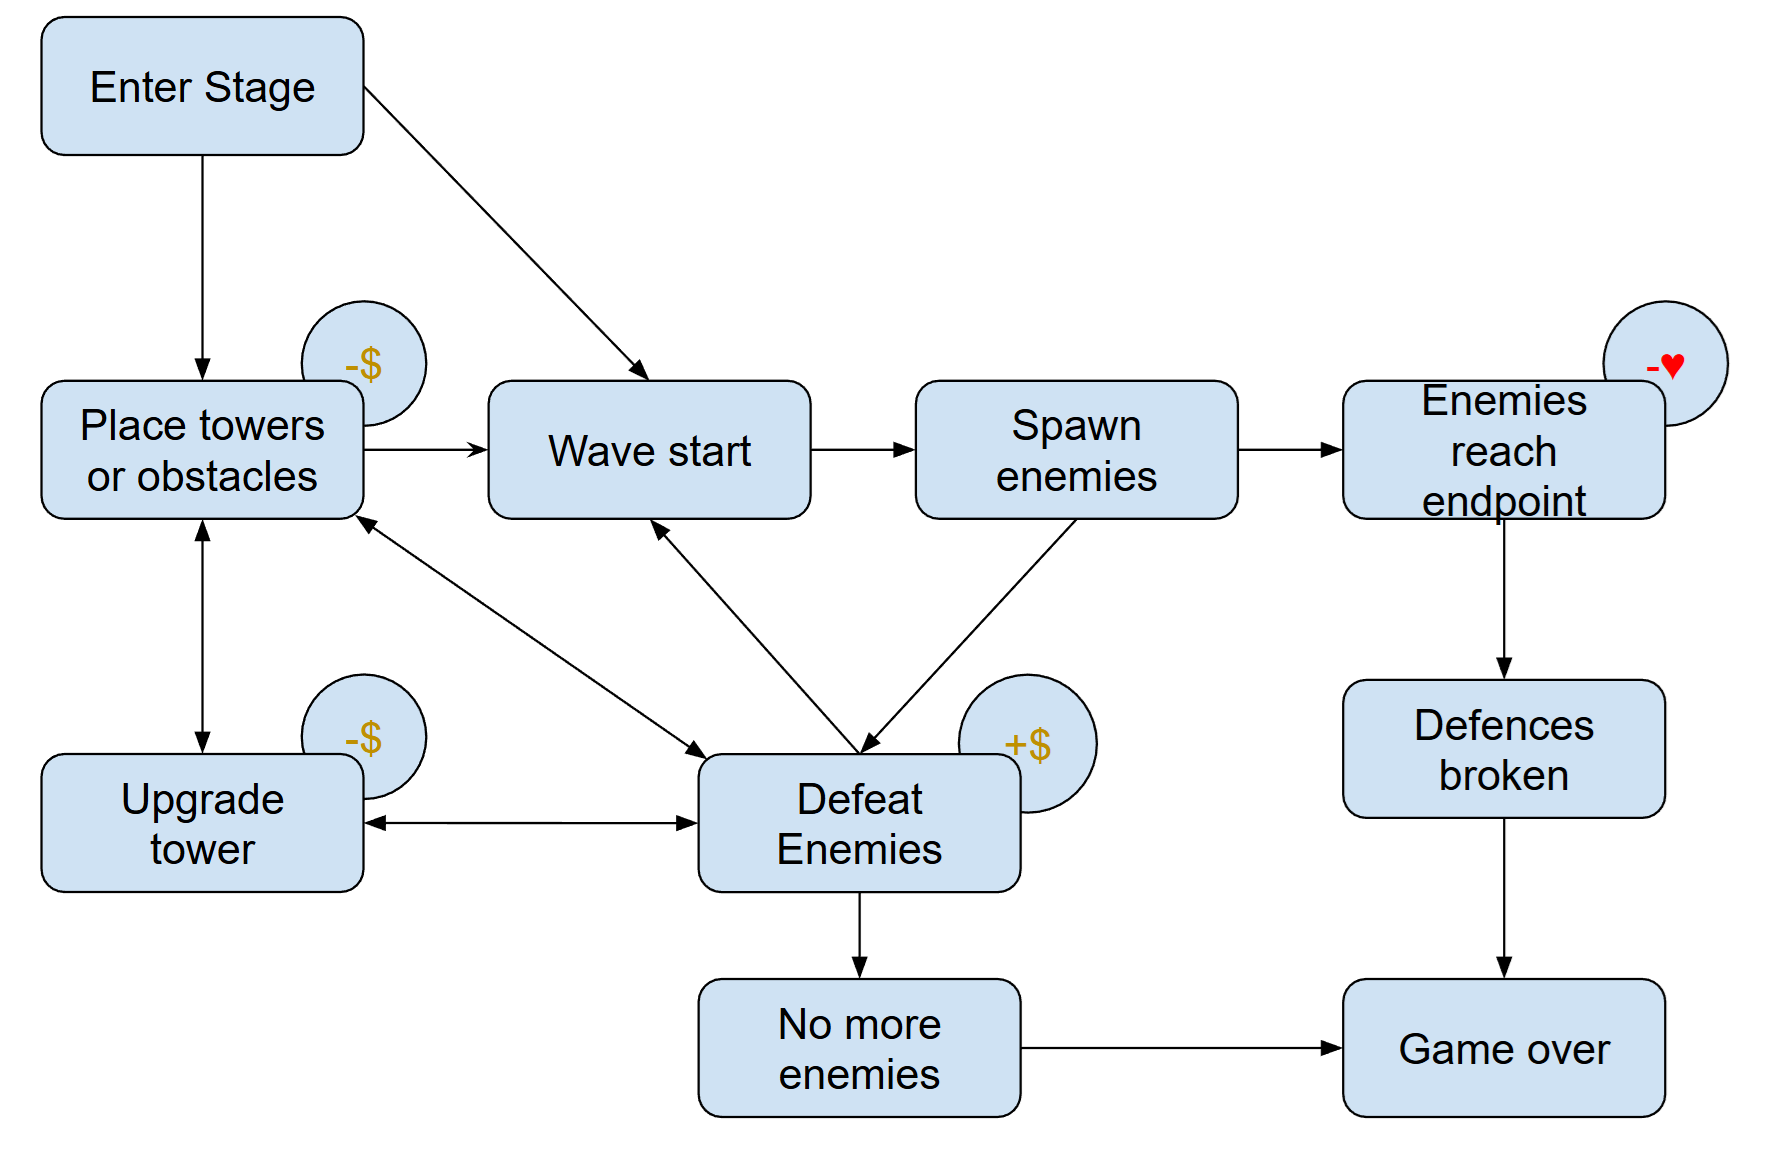
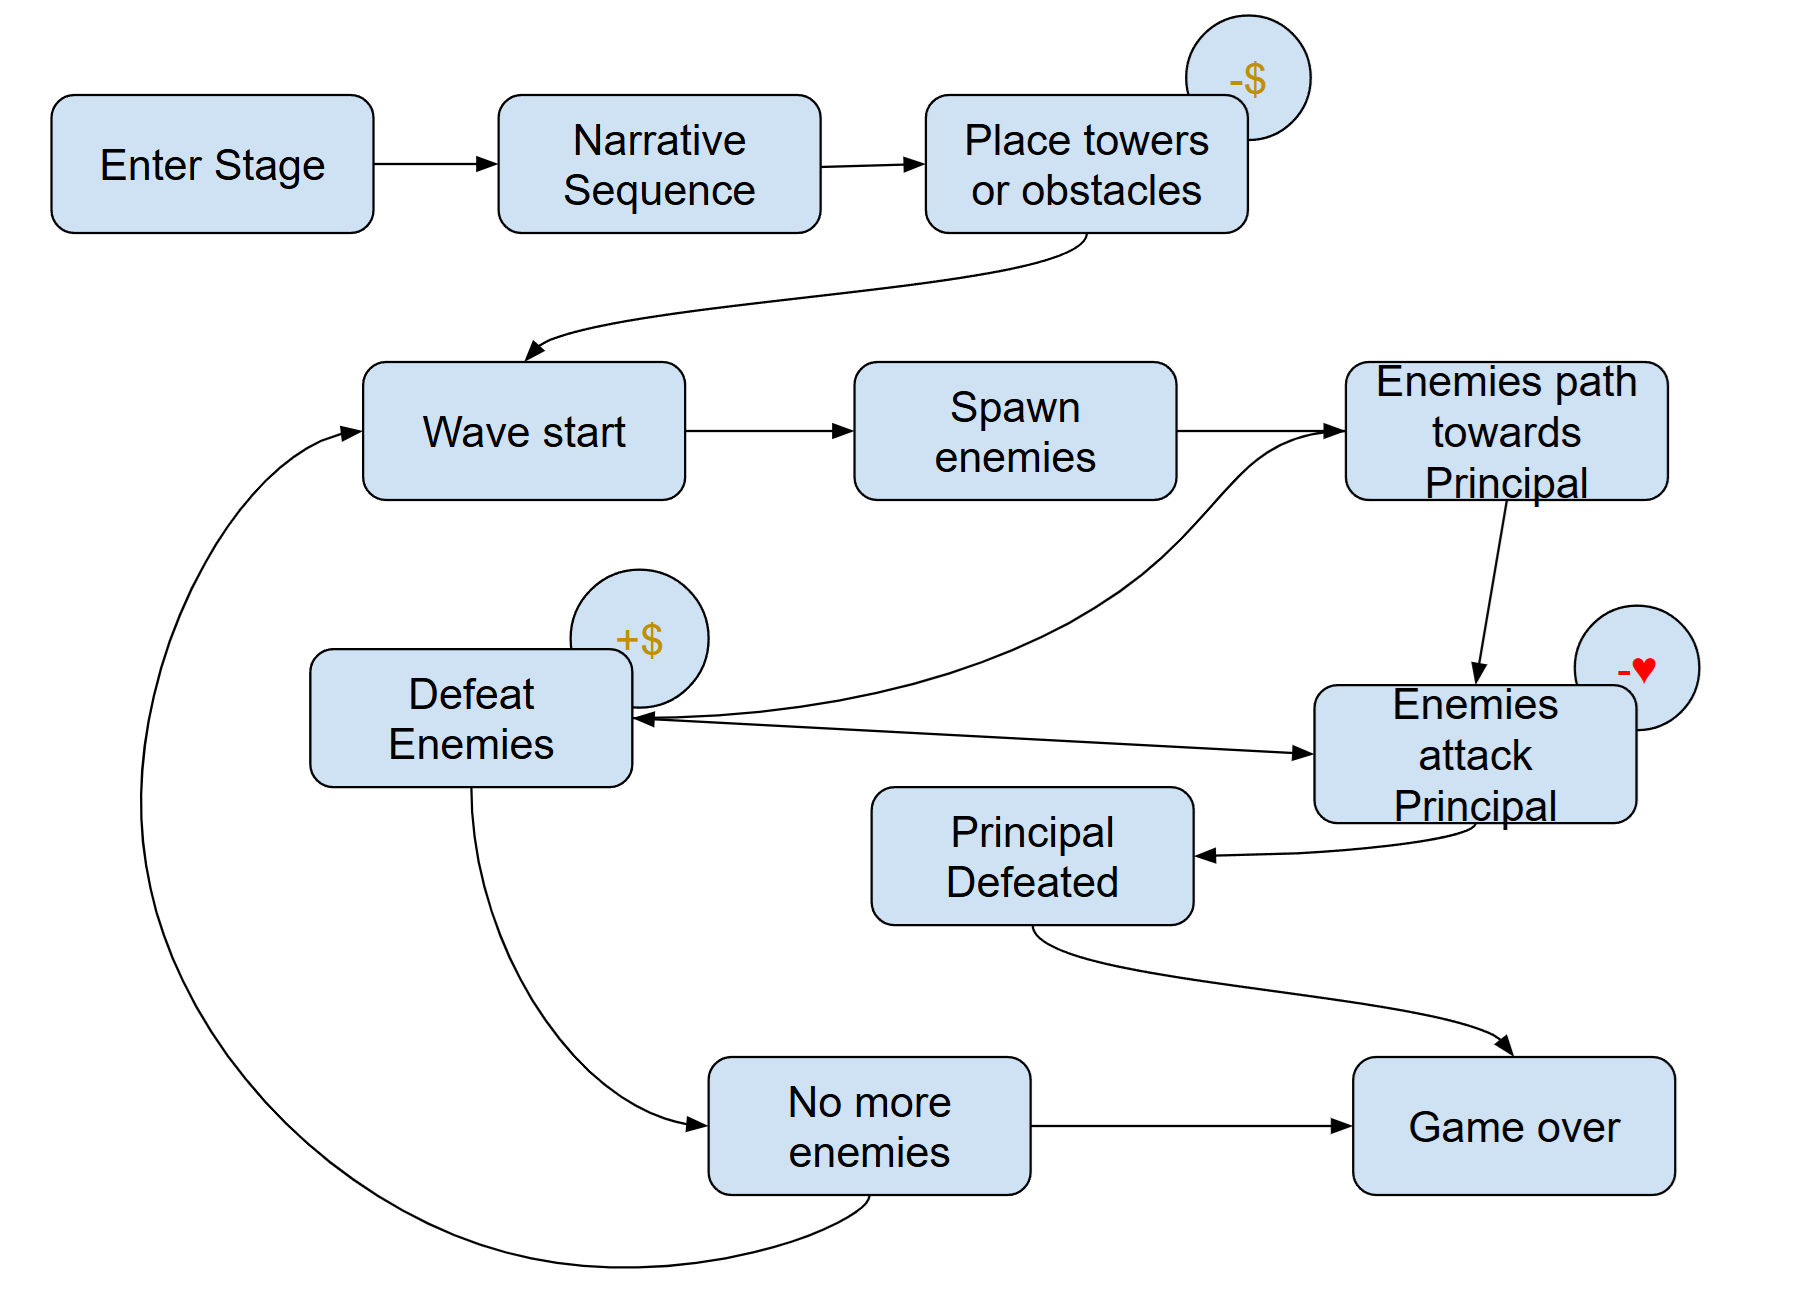
edit GDD

diff --git a/Assets/Scripts/PathFinding.cs b/Assets/Scripts/PathFinding.cs
@@ -5,11 +5,17 @@ public class PathFinding : MonoBehaviour
 {
     public static PathFinding Instance { get; private set; }
     public NodeGrid NodeGrid;
+    // public Transform seeker, target;
 
     void Awake()
     {
         Instance = this;
     }
+
+    // void Update()
+    // {
+    //     NodeGrid.path = FindPath(seeker.position, target.position);
+    // }
 
     public List<Node> FindPath(Vector3 startPos, Vector3 targetPos)
     {

diff --git a/README.md b/README.md
@@ -8,16 +8,16 @@ A video game concept derived from a group project during my undergraduate years.
 
 - Isometric grid based tower defense game set in a school environment where students are revolting en masse against the institute.
 - Features placeable barriers and teacher "turrets" to fight against the student invasion over the school campus.
-- Features Teamfight Tactics inspired grid movement and augments for added gameplay variance.
+<!-- - Features Teamfight Tactics inspired grid movement and augments for added gameplay variance. -->
 - Narrative is delivered through Danganronpa visual novel styled dialogue in-between stages and during stage gameplay when pinnacle scripted events occur.
-- Core aesthetics for this game is sensation through sound, effects and the act of slowing/defeating waves of students.
-- Main platforms are PC.
+- Core aesthetics for this game is sensation through sound, effects and the act of defeating waves of enemies.
+- Main platform is PC.
 - Business model for this game will be a one time purchase to play forever with optional cosmetic skins for teachers.
 
 ## Art Style / Theme
 
-- User Interface Style - Through the UI, the information that must be shown are: defence levels, available currency, wave number, turret selection buttons, tooltips when selecting/hovering entities, game speed and game options.  
-![ui](./Media/style1.png)
+- User Interface Style - The information that must be shown are: defence levels, available currency, wave number, turret selection buttons, tooltips when selecting/hovering entities, game speed and game options.  
+![ui](./Media/style1.png) 
 
 - Environments - Common school locations with classroom, library, courtyard and gym as an example.   
 ![environments](./Media/style2.png)
@@ -25,16 +25,24 @@ A video game concept derived from a group project during my undergraduate years.
 - Characters - Generally students/teachers with standout traits.
     - Students
         - Code Monkey - Computer Science student but can jump over obstacles.
+        - Delinquent
+        - Weeb
+    - Star Students
+        - These are unique exeptional students that perform beyond an average student. Typically reserved for each stage's final boss.  
+        - Mutant Student - Final boss of stage 1. Can break through environments that are typically not expected to be destroyed, like walls and large permanent barricades. He traverses directly to the principal and generally one-shots all characters.
     - Teachers
+        - Principal - The main defense target and leader of the FDF. Uses his fists to defend his school, the old fashioned way.
         - PE Teacher - Launches basketballs that bounce between targets.  
         - Law Teacher - Wear down students with logical arguments, dealing high single target damage.  
         - Biology Teacher - Rapidly grows plants that spits seeds at high speeds and fire rate.  
 - Below is an example of 2D sprites and art theme.  
 ![characters](./Media/style3.png)
 
-- Rendering Style - Cell shaded or stylized 3D environments and objects while characters will be 2D sprites.  
-<!-- __TODO BE MORE SPECIFIC. REFERENCES ARE CONFUSING. THINK ABOUT WHICH ONE IS A BETTER CHOICE FOR MY GAME. THINK ABOUT HIGH FANTASY ELEMENTS IN THE DESIGN__   -->
-![rendering](./Media/style4.png)
+- Rendering Style - Isometric camera with a mix of 2d and 3d elements.
+    - 2d sprite characters in 3d environments.  
+    ![rendering](./Media/style4.png)
+    - 3d environments with isometric view.  
+    ![rendering](./Media/style5.jpeg)
 
 ## Story
 
@@ -48,26 +56,34 @@ Deploy teachers and obstacles to prevent the students from taking over the campu
 ## Screens, UI, UX
 
 - Defending a wave of students.  
-<!-- - __TODO MAJOR CONSIDERATION IS CAMERA__   -->
 ![ui](./Media/ui.png)
 
 - Tooltip when selecting students, teachers or structures  
 ![ui-tooltip](./Media/ui-tooltip.png)
-
-## Game Economy
-
-Each teacher will have at least 1 optional skin purchaseable for $2.99 delivered through DLC. It is something to add to monetisation but not interfere with core gameplay.
-
-## Asset List
-
-TBD
 
 ## Level Schema and Sample Level Design
 
 5 stages that start at the principal's office AKA the last line of defence. Successfully defend each location and retake the school in the following order:  
 Principal's Office -> Library -> Gym -> Classroom -> Courtyard  
 
-SAMPLE TBD
+- Sample of Principal's Office
+![sample](./Media/sample.png)
+
+## Game Mechanics to Implement
+
+- TFT augments to tweak teacher abilities and promote a playstyle.
+
+## Game Economy
+
+Each teacher will have at least 1 optional skin purchaseable for $2.99 delivered through DLC. It is something to add to monetisation but not interfere with core gameplay.
+
+## Community Engagement
+
+Actively engage with community members through official Discord server and Steam forums to collect feedback. The purpose is to gauge player sentiment and understand what needs to change.
+
+<!-- ## Asset List
+
+TBD -->
 
 ## Development Pipeline
 
@@ -82,6 +98,18 @@ SAMPLE TBD
 ## Risks
 
 This game heavily depends on visual appeal and stylized characters. Reach out early to artists to collaborate.
+
+## Integration of Feedback
+
+- _Slow or awkward movment_  
+Opted to use continuous movement instead of grid cell movement. It felt awkward that students are invading but they are stopping in place every second. Initially, I wanted to have more TFT inspired movement but it is now scrapped.
+
+- _Player understanding and game clarity_ **TBD**  
+Currently it is difficulty for the player to quickly understand the action of placing teachers. Players also have issues with clarity in areas where there are large number of entities in view. It can be difficult to differentiate teachers from students.
+
+## Post-launch Content
+
+If there is player demand for more content, consider looking into ways to add bonus stories through DLC. Additionally, free content updates like an endless mode can be considered.
 
 ## Team and Budget
 
@@ -99,11 +127,11 @@ Budget:
 
 ## Schedule
 
-1. Planning and Ideation: `2026 JAN 1 to FEB 1`
-2. Pre-Production: `2026 FEB 1 to MAR 15`
-3. Production: `2026 MAR 16 to APR 15`
-4. Testing and QA: `2026 APR 16 to MAY 31`
-5. Post-Production: `2026 JUN 1 to 2027 JAN 1`
+1. Planning and Ideation: `2026 JAN 1 to FEB 28`
+2. Pre-Production: `2026 MAR 1 to APR 31`
+3. Production: `2026 MAY 1 to JULY 30`
+4. Testing and QA: `2026 AUG 1 to SEP 30`
+5. Post-Production: `2026 OCT 1 to 2027 JAN 1`
 
 ## References
 
